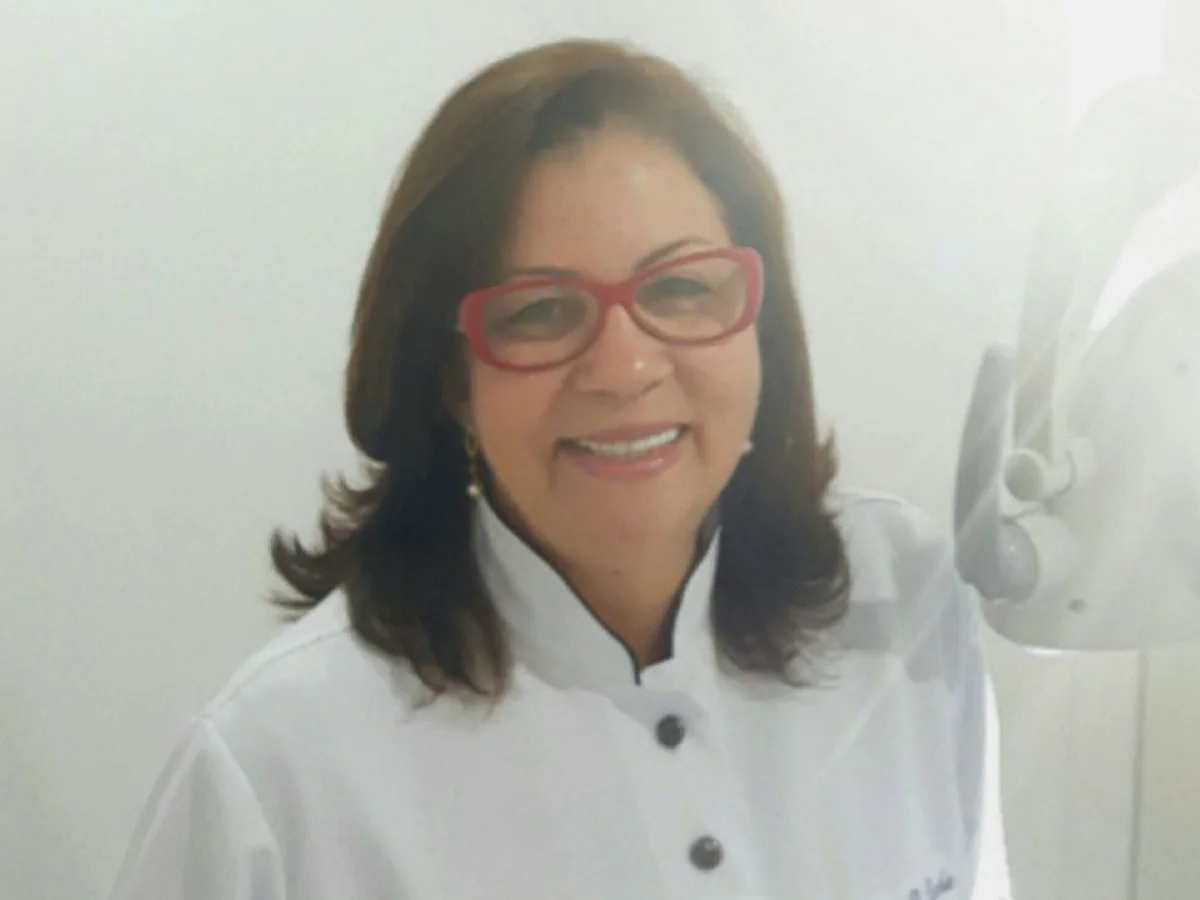
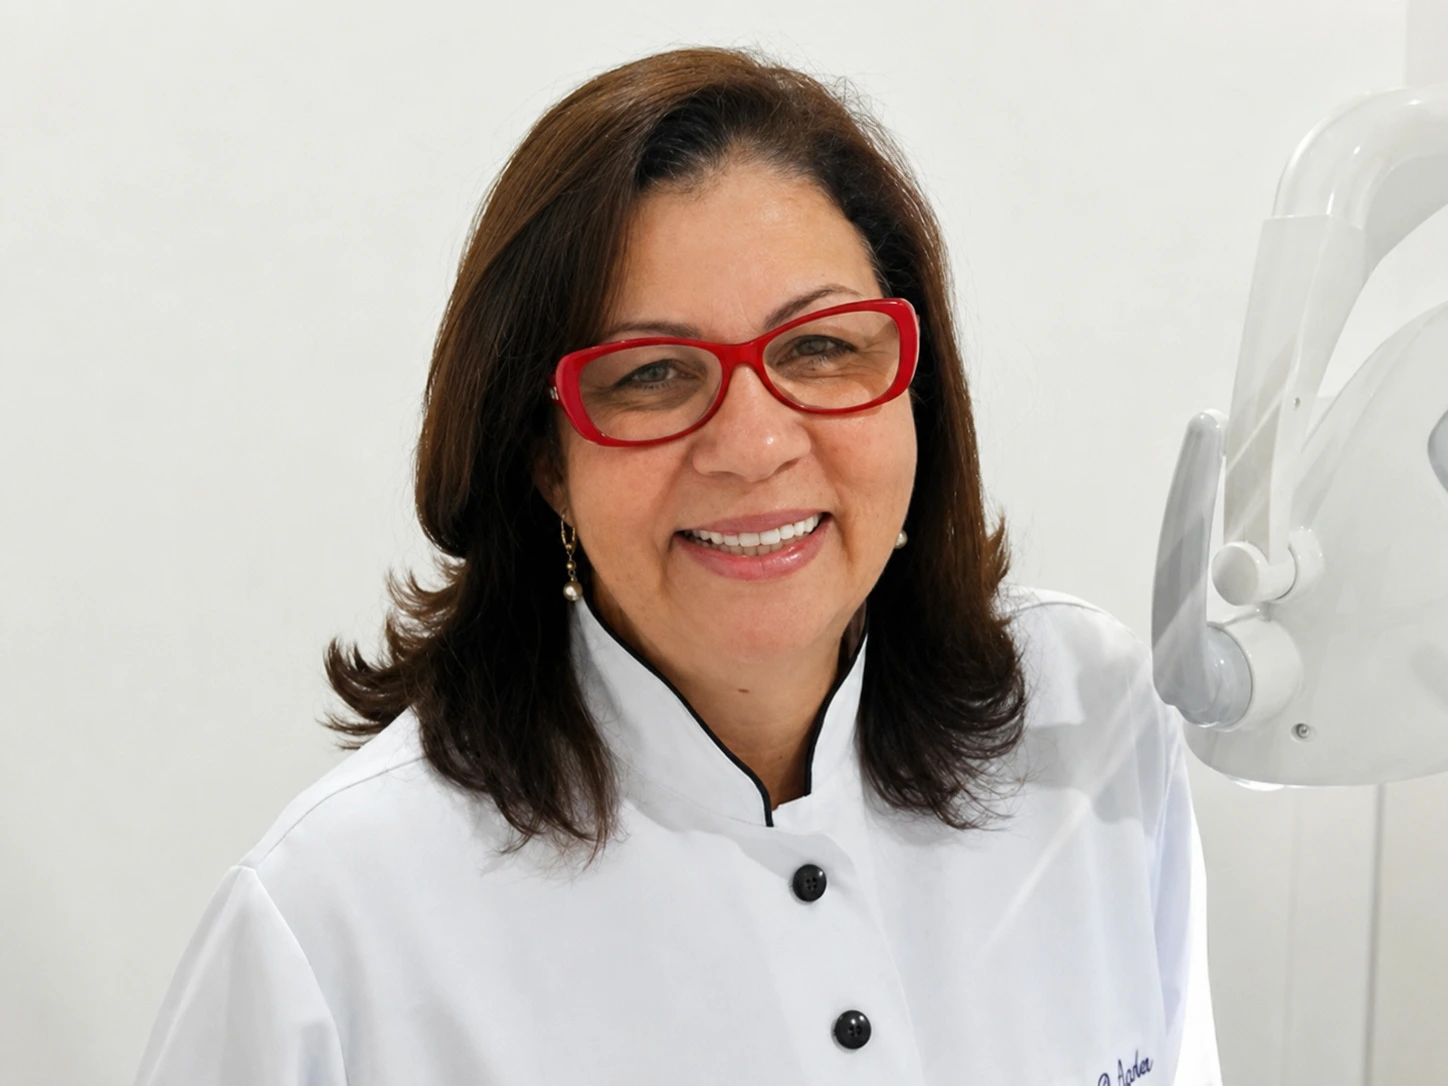
feat: integrate Google Analytics for enhanced tracking and update privacy policy details

diff --git a/src/app/layout.tsx b/src/app/layout.tsx
@@ -1,5 +1,6 @@
 import type { Metadata, Viewport } from "next";
 import { Outfit, Work_Sans } from "next/font/google";
+import Script from "next/script";
 import { WhatsAppProvider } from "@/components/whatsapp-chooser";
 import { SITE_URL } from "@/lib/site-data";
 import "./globals.css";
@@ -72,6 +73,19 @@ export default function RootLayout({
       <body>
         <WhatsAppProvider>{children}</WhatsAppProvider>
       </body>
+      <Script
+        src="https://www.googletagmanager.com/gtag/js?id=G-7BE21XPLT4"
+        strategy="afterInteractive"
+      />
+      <Script id="google-analytics" strategy="afterInteractive">
+        {`
+          window.dataLayer = window.dataLayer || [];
+          function gtag(){dataLayer.push(arguments);}
+          gtag('js', new Date());
+
+          gtag('config', 'G-7BE21XPLT4');
+        `}
+      </Script>
     </html>
   );
 }

diff --git a/src/app/politica-de-privacidade/page.tsx b/src/app/politica-de-privacidade/page.tsx
@@ -72,10 +72,11 @@ export default function PrivacyPolicyPage() {
               <section>
                 <h2>2. Quais dados são coletados</h2>
                 <p>
-                  Esta versão do site não possui formulário, cadastro, área do
-                  paciente ou ferramenta própria de analytics. Portanto, o site
-                  não coleta diretamente nome, telefone, CPF, informações clínicas
-                  ou outros dados pessoais.
+                  Esta versão do site não possui formulário, cadastro ou área do
+                  paciente. O site utiliza Google Analytics para medir, de forma
+                  agregada, visitas, páginas acessadas e interações de navegação.
+                  O site não coleta diretamente nome, telefone, CPF, informações
+                  clínicas ou outros dados pessoais por meio de formulários.
                 </p>
                 <p>
                   Ao escolher falar pelo WhatsApp, você será direcionado para um
@@ -102,8 +103,9 @@ export default function PrivacyPolicyPage() {
                   Os links de WhatsApp e Google Maps seguem as políticas de
                   privacidade das respectivas plataformas. O mapa incorporado usa o
                   Google Maps e pode carregar recursos externos quando você se
-                  aproxima da seção de localização. Nenhum cookie de analytics é
-                  instalado por este site.
+                  aproxima da seção de localização. O Google Analytics também
+                  pode carregar recursos externos e usar identificadores ou cookies
+                  para gerar métricas agregadas de navegação.
                 </p>
               </section>
 

diff --git a/tests/e2e/landing.spec.ts b/tests/e2e/landing.spec.ts
@@ -141,6 +141,12 @@ test("publica a política de privacidade", async ({ page }) => {
     page.getByRole("heading", { level: 1, name: "Política de Privacidade" }),
   ).toBeVisible();
   await expect(page.getByText(/não possui formulário, cadastro/i)).toBeVisible();
+  await expect(page.getByText(/Google Analytics para medir/i)).toBeVisible();
+  await expect(
+    page.locator(
+      'script[src="https://www.googletagmanager.com/gtag/js?id=G-7BE21XPLT4"]',
+    ),
+  ).toHaveCount(1);
   await expect(page.locator("h1")).toHaveCount(1);
 });
 